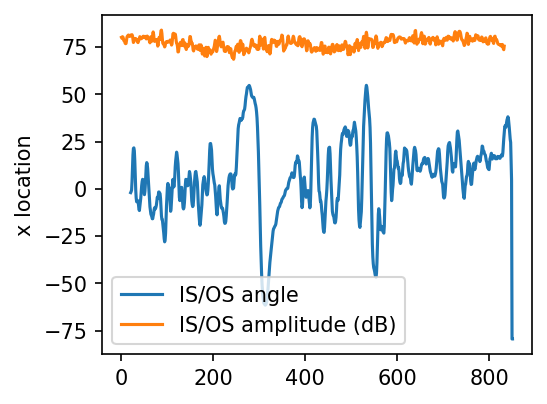
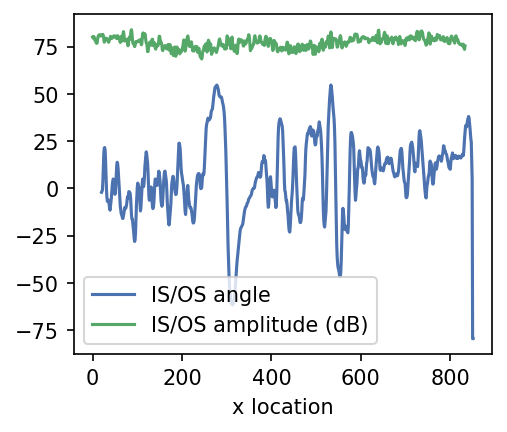
foo

Changed region(s): [[0.0296, 0.0297, 0.9763, 0.9802]]

diff --git a/README.md b/README.md
@@ -10,7 +10,11 @@ This repository is intended to illustrate the analytical approach that we employ
 
 ### Methods
 
-Directional OCT (dOCT) was realized by translating the OCT imaging beam across the horizontal diameter of the pupil. As described below, our analytical approach did not require knowledge of the beam's position in the pupil, so we acquired images from one edge of the pupil to the other in increments of 0.64 mm. At each location, between 1200 and 1600 B-scans were acquired. These were aligned and averaged using a custom semi-rigid body algorithm. For each pupil location, approximately 50 B-scans were averaged to generate a single averaged image for each pupil location. In the resulting average images, a semi-automated method was used to segment the inner-outer segment (IS/OS) band and fit it with a smooth curve. (The cone outer segment (COST) band was not studied because a clear boundary between COST and retinal pigmented epithelium (RPE) was rarely observed above drusen, and contamination by light scattered from RPE was unavoidable.) At each A-scan of the average B-scan, the tangent to the IS/OS curve and the IS/OS amplitude (integrated over three pixels) was recorded. In addition, in each average B-scan, the boundaries of the drusen were determined visually, and each A-scan was labeled as 'drusen', 'non-drusen', or 'transitional'. Transitional zones were omitted from further analysis.
+Directional OCT (dOCT) was realized by translating the OCT imaging beam across the horizontal diameter of the pupil. As described below, our analytical approach did not require knowledge of the beam's position in the pupil, so we acquired images from one edge of the pupil to the other in increments of 0.64 mm. At each location, between 1200 and 1600 B-scans were acquired. These were aligned and averaged using a custom semi-rigid body algorithm. For each pupil location, at least 50 B-scans were averaged to generate a single averaged image. Pupil locations were omitted from analysis if 50 B-scans could not be identified with sufficiently high correlation (e.g., when there was too much eye movement normal to the plane of the B-scan). In the resulting average images, a semi-automated method was used to segment the inner-outer segment (IS/OS) band and fit it with a smooth curve. (The cone outer segment (COST) band was not studied because a clear boundary between COST and retinal pigmented epithelium (RPE) was rarely observed above drusen, and contamination by light scattered from RPE was unavoidable.) 
+
+At each A-scan of the average B-scan, the tangent to the IS/OS curve and the IS/OS amplitude (integrated over three pixels) was recorded. To account for the potentially confounding variable of overall image brightness (as a function of pupil position), the IS/OS amplitude was normalized by the amplitude of an overlying region in the outer nuclear layer (ONL), which was separately shown to have low directional dependence. Thus each amplitude value recorded represents the factor by which the IS/OS was more reflective than the corresponding ONL (in linear scale).
+
+In addition, in each average B-scan, the boundaries of the drusen were determined visually, and each A-scan was labeled as 'drusen', 'non-drusen', or 'transitional'. Transitional zones were omitted from further analysis.
 
 Thus for each pupil entry position, an **averaged B-scan** was recorded, along with records of the following parameters, all functions of lateral position in the B-scan (i.e., A-scan location):
 
@@ -30,6 +34,7 @@ The following example illustrates the data recorded from a single pupil entry po
 import numpy as np
 from matplotlib import pyplot as plt
 import os
+plt.style.use('seaborn-deep')
 
 pupil_position = 'p00'
 subject_folder = './data/subject_02/'
@@ -38,6 +43,7 @@ subject_folder = './data/subject_02/'
 bscan_fn = os.path.join(subject_folder,'pupil_position_%s_average_bscan.npy'%pupil_position)
 bscan = np.load(bscan_fn)
 dB = 20*np.log10(bscan)
+clim = (55,80)
 
 # load IS/OS location
 isos_location_fn = os.path.join(subject_folder,'pupil_position_%s_isos_axial_location.npy'%pupil_position)
@@ -56,23 +62,24 @@ isos_amplitude = np.load(isos_amplitude_fn)
 plt.figure(figsize=(6,3),dpi=150)
 plt.imshow(dB,clim=clim,cmap='gray')
 plt.ylim((2000,1300))
-clim = (50,90) # reasonable amplitude range, in dB
+plt.xticks([])
+#plt.yticks([])
 plt.colorbar()
-plt.plot(x,isos_location,label='IS/OS location')
+plt.plot(x,isos_location,label='IS/OS location',alpha=0.5)
 plt.legend()
 
 # plot angle and amplitude as functions of x
-plt.figure(figsize=(3.7,3),dpi=150)
+plt.figure(figsize=(3.6,3),dpi=150)
 plt.plot(x,isos_angle,label='IS/OS angle')
 plt.plot(x,20*np.log10(isos_amplitude),label='IS/OS amplitude (dB)')
 plt.legend()
-plt.ylabel('x location')
+plt.xlabel('x location')
 ```
 
 
 
 
-    Text(0, 0.5, 'x location')
+    Text(0.5, 0, 'x location')
 
 
 
@@ -83,3 +90,112 @@ plt.ylabel('x location')
 
 ![png](dOCT_drusen_example_files/dOCT_drusen_example_1_2.png)
 
+
+#### Data aggregated over pupil positions
+
+Data associated with the pupil-position-specific B-scans were aggregated, for drusen and non-drusen regions of the images separately. For each subject, these are stored in two files: 
+
+* ```directionality_raw_data_drusen_centered.npy```
+* ```directionality_raw_data_nondrusen_centered.npy```
+
+Each contains an Nx2 matrix, where N represents the number of data points aggregated from all pupil positions. The two columns represent the IS/OS curve angle and normalized amplitude. Because the displacement of the Stiles-Crawford peak from the pupil center is not of interest, and because the pupil position was not tracked, angles for each subject were zero-centered by subtracting the average angle.
+
+#### Visualization of aggregated data
+
+The plot below illustrates the data aggregated from one subject's non-drusen IS/OS. In order to calculate the angle correctly, the x and z sampling densities of the OCT image must be considered. The width of the OCT scan on the retina was $2 mm$, sampled with 800 A-scans, resulting in a pixel width of $2.5 \mu m$. The depth corresponding to a single pixel was $5 \mu m$, which requires a scaling of the angle by a factor of 2. Assuming an eye length of $22.7 mm$ and refractive index of $1.33$ (thus an optical path length through the eye of $16.7 mm$), a tangent angle $\theta$, and eye length $\ell$, the effective pupil position $x$ is given by:
+
+$$x = \tan(\theta)\ell$$
+
+
+
+
+```python
+nondrusen_aggregate_fn = os.path.join(subject_folder,'directionality_raw_data_nondrusen_centered.npy')
+angle_amplitude = np.load(nondrusen_aggregate_fn)
+angle = angle_amplitude[:,0]/2.0
+angle = (angle/180*np.pi)
+x = np.tan(angle)*16.67
+print(x.min(),x.max())
+amplitude = angle_amplitude[:,1]
+
+
+plt.figure(figsize=(3.7,3),dpi=150)
+plt.plot(x,amplitude,'.',alpha=0.2,markersize=1)
+plt.gca().set_ylim(bottom=0)
+plt.xlabel('effective pupil position (mm)')
+plt.show()
+
+```
+
+    -5.316274783874224 3.618570634585382
+
+
+
+![png](dOCT_drusen_example_files/dOCT_drusen_example_3_1.png)
+
+
+#### Improving data visualization using rolling averaging
+
+While a clear dependence of IS/OS amplitude on angle of illumination is visible in the figure above, substantial variance at all angles makes the relationship difficult to appreciate visually. To improve visualization, a rolling average technique was employed. A window of width $5.0^\circ$ was stepped across the range of angles present in a subject's measurements, in increments of $2.0^\circ$, and the average amplitude and standard deviation of amplitude were recorded at each location. The result of this averaging is shown below.
+
+
+```python
+def rolling_median(pupil_position,amp,window_width=1.0,step_size=0.5,diagnostics=False):
+    
+    # find the start and end angles
+    t_start = np.min(pupil_position)
+    t_end = np.max(pupil_position)
+    print(t_start,t_end)
+    window_centers = []
+    amplitude_mean = []
+    amplitude_std = []
+
+    for t in np.arange(t_start,t_end+step_size,step_size):
+
+        # find he indices in the angle array where the angle falls in our window
+        idx = np.where(np.logical_and(pupil_position>=t,pupil_position<t+window_width))[0]
+
+        if len(idx)>0:
+            window_centers.append(t+window_width/2.0)        
+            amplitude_mean.append(np.median(amp[idx]))
+            amplitude_std.append(np.std(amp[idx]))
+
+
+
+    return np.array(window_centers),np.array(amplitude_mean),np.array(amplitude_std)
+
+window_centers, amplitude_mean, amplitude_std = rolling_median(x,amplitude)
+plt.figure(figsize=(3.7,3),dpi=150)
+# plot the raw data with low alpha
+plt.plot(x,amplitude,'.',alpha=0.1,markersize=1,label='raw data')
+# plot the average with standard deviation bars
+plt.errorbar(window_centers,amplitude_mean,amplitude_std,label='rolling median')
+plt.xlabel('effective pupil position (mm)')
+plt.ylabel('normalized amplitude (ADU)')
+plt.gca().set_ylim(bottom=0)
+plt.legend()
+
+plt.show()
+
+```
+
+    -5.316274783874224 3.618570634585382
+
+
+
+![png](dOCT_drusen_example_files/dOCT_drusen_example_5_1.png)
+
+
+#### A model for directionality
+
+
+
+
+```python
+
+```
+
+
+```python
+
+```
